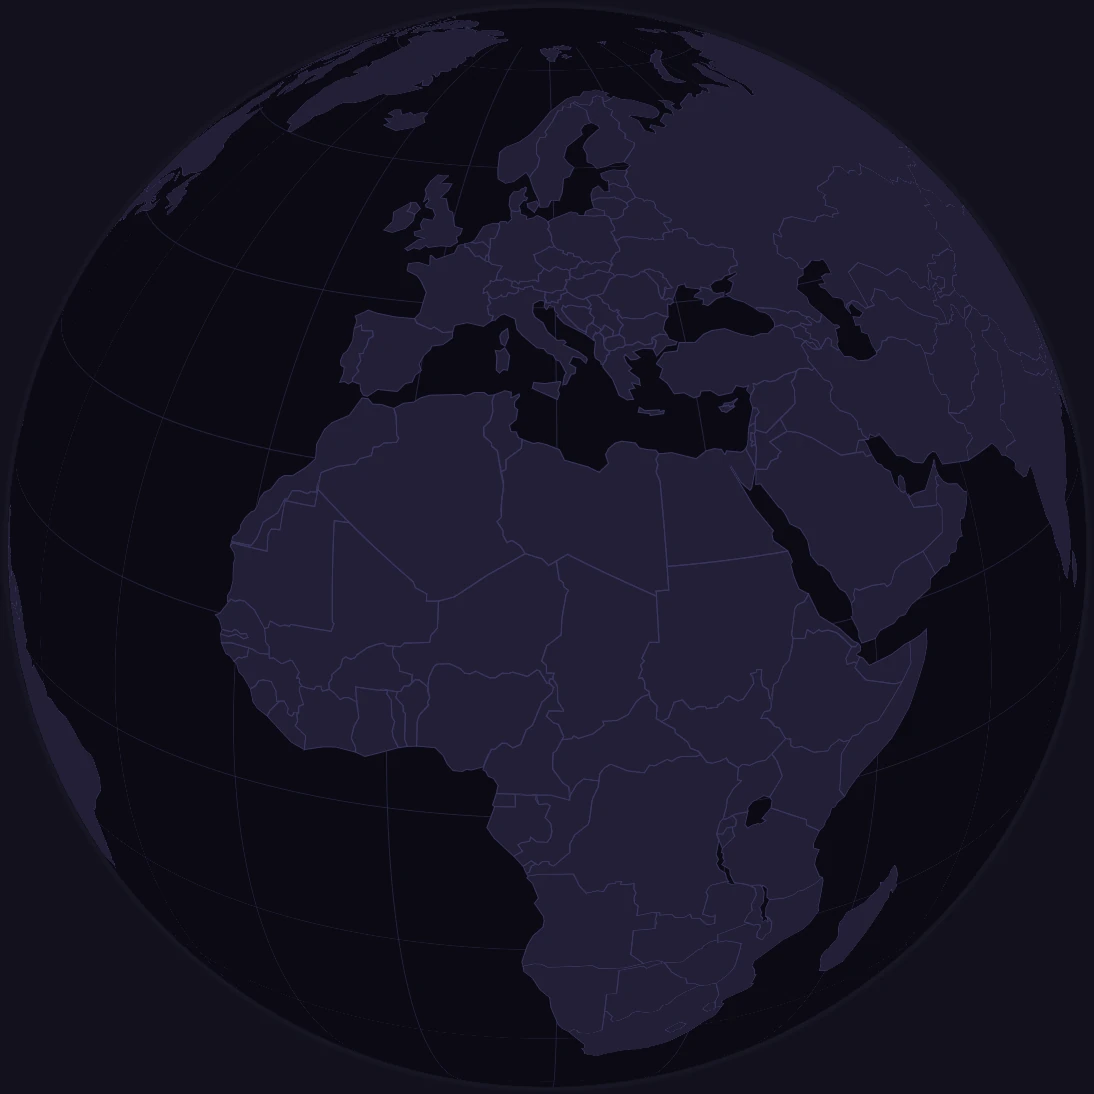
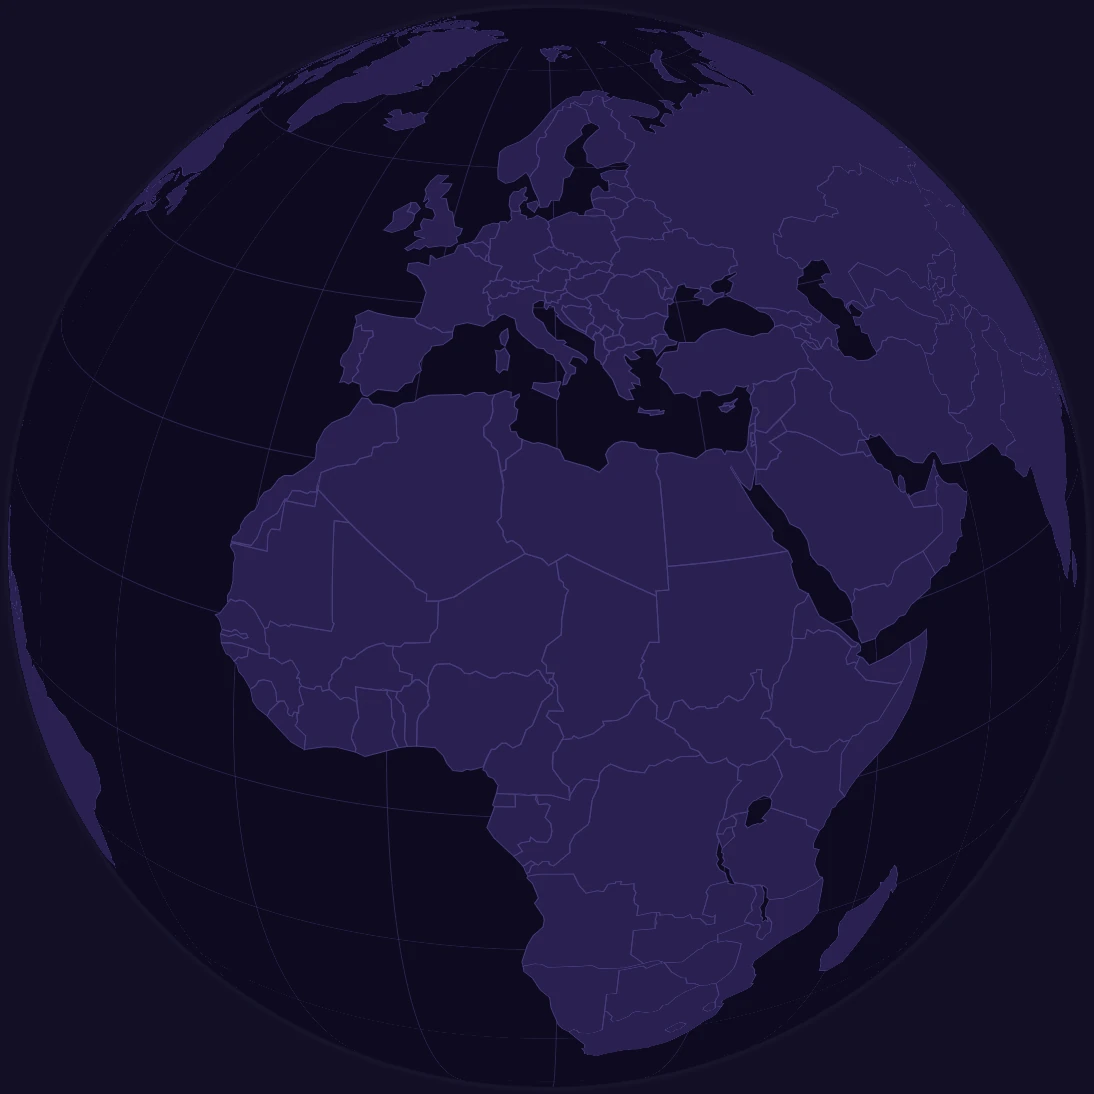
feat: dark theme in deep indigo-plum with the brand colours lit
Surfaces keep a violet cast, borders are orchid-tinted, and the liquid
gradient uses deep saturated coral, orchid and periwinkle at night instead of
dimmed pastels. Globe colours and still frames regenerated.

diff --git a/app/globals.css b/app/globals.css
@@ -44,6 +44,12 @@
   --orchid: #d9b3e6;
   --orchid-strong: #8f55a8;
 
+  /* the liquid gradient by day: the three pastels themselves */
+  --liquid-1: var(--agency);
+  --liquid-2: var(--orchid);
+  --liquid-3: var(--investor);
+  --liquid-opacity: 0.75;
+
   /* listings on the globe are an agency's: coral */
   --beacon: #c2534b;
   --beacon-glow: #f08a80;
@@ -65,50 +71,57 @@
 }
 
 .dark {
-  /* Night */
-  --background: #13111e;
-  --foreground: #f1edf7;
-  --card: #1d1a2b;
-  --card-foreground: #f1edf7;
-  --popover: #1d1a2b;
-  --popover-foreground: #f1edf7;
-  --primary: #d9b3e6;
+  /* Night: a deep indigo-plum rather than a neutral black, so the three brand colours read as lit, not washed out.
+     Surfaces step up in lightness and keep the violet cast; borders are tinted orchid. */
+  --background: #130f26;
+  --foreground: #f3eefb;
+  --card: #1f1838;
+  --card-foreground: #f3eefb;
+  --popover: #231b40;
+  --popover-foreground: #f3eefb;
+  --primary: #dcb8ea;
   --primary-foreground: #1e1b2e;
-  --secondary: #2a2640;
-  --secondary-foreground: #f1edf7;
-  --muted: #221f34;
-  --muted-foreground: #a39db8;
-  --accent: #2a2640;
-  --accent-foreground: #f1edf7;
-  --destructive: #f08a80;
-  --border: rgb(241 237 247 / 0.1);
-  --input: rgb(241 237 247 / 0.16);
-  --ring: #d9b3e6;
+  --secondary: #2c2350;
+  --secondary-foreground: #f3eefb;
+  --muted: #241c44;
+  --muted-foreground: #b4aad0;
+  --accent: #30265a;
+  --accent-foreground: #f3eefb;
+  --destructive: #f59a90;
+  --border: rgb(220 184 234 / 0.14);
+  --input: rgb(220 184 234 / 0.22);
+  --ring: #dcb8ea;
 
   --investor: #b3c7f3;
   --investor-strong: #a9bff2;
   --agency: #f5b3ac;
   --agency-strong: #f5a8a0;
-  --orchid: #d9b3e6;
-  --orchid-strong: #dbb6e8;
+  --orchid: #dcb8ea;
+  --orchid-strong: #dfbdec;
+
+  /* the liquid gradient at night: the same three hues, deep and saturated, so they glow instead of greying */
+  --liquid-1: #b0464f;
+  --liquid-2: #7f3fa6;
+  --liquid-3: #3b55b8;
+  --liquid-opacity: 0.6;
 
   --beacon: #f5a8a0;
   --beacon-glow: #ffd0ca;
   --atmosphere: #9db4f0;
   --positive: #6fd3a8;
-  --ocean: #0b0a14;
-  --land: #221f36;
-  --land-line: #3a3560;
-  --glass: rgb(29 26 43 / 0.72);
-  --glass-border: rgb(241 237 247 / 0.08);
-  --shadow-color: 262 60% 3%;
+  --ocean: #0e0a20;
+  --land: #2a2152;
+  --land-line: #473c7c;
+  --glass: rgb(31 24 56 / 0.74);
+  --glass-border: rgb(220 184 234 / 0.14);
+  --shadow-color: 258 70% 4%;
 
   /* charts: validated against the dark card surface */
   --chart-1: #6b8ae0;
   --chart-2: #de685d;
   --chart-3: #ac62ce;
   --chart-4: #32a877;
-  --chart-5: #a39db8;
+  --chart-5: #b4aad0;
 }
 
 /* Agency pages (dashboard, agency sign-up): coral leads instead of orchid. */
@@ -286,13 +299,12 @@
     aspect-ratio: 1;
     border-radius: 9999px;
     filter: blur(70px);
-    opacity: 0.75;
+    opacity: var(--liquid-opacity);
     will-change: transform;
   }
-  .liquid > i:nth-child(1) { left: -12%; top: -22%; background: var(--agency); animation: var(--animate-liquid-a); }
-  .liquid > i:nth-child(2) { left: 26%; top: 6%; background: var(--orchid); animation: var(--animate-liquid-b); }
-  .liquid > i:nth-child(3) { right: -16%; top: -12%; background: var(--investor); animation: var(--animate-liquid-c); }
-  .dark .liquid > i { opacity: 0.3; }
+  .liquid > i:nth-child(1) { left: -12%; top: -22%; background: var(--liquid-1); animation: var(--animate-liquid-a); }
+  .liquid > i:nth-child(2) { left: 26%; top: 6%; background: var(--liquid-2); animation: var(--animate-liquid-b); }
+  .liquid > i:nth-child(3) { right: -16%; top: -12%; background: var(--liquid-3); animation: var(--animate-liquid-c); }
   /* Text painted with the same three colours, for one or two words of a headline. */
   .text-liquid {
     background: linear-gradient(100deg, var(--agency-strong), var(--orchid-strong) 50%, var(--investor-strong));

diff --git a/components/home/home-extras.tsx b/components/home/home-extras.tsx
@@ -45,7 +45,11 @@ export function PlacesMarquee() {
   }, [countries, pins]);
   // the band keeps its height while the list loads, so nothing below it moves
   return (
-    <div className="border-y bg-foreground py-4 text-background" aria-hidden={listed.length === 0}>
+    // by day an ink band; at night a band of the three brand colours, since a white one would glare
+    <div
+      className="border-y bg-foreground py-4 text-background dark:border-transparent dark:text-white dark:[background:linear-gradient(90deg,var(--liquid-1),var(--liquid-2),var(--liquid-3))]"
+      aria-hidden={listed.length === 0}
+    >
       <div className="h-8">
         {listed.length > 0 && (
           <Marquee className="p-0 [--duration:45s] [--gap:3rem]" repeat={3}>

diff --git a/lib/map/style.ts b/lib/map/style.ts
@@ -22,16 +22,16 @@ export const MAP_PALETTE = {
     atmosphere: '#6f8fd8',
   },
   dark: {
-    space: '#0a0912',
-    ocean: '#0b0a14',
-    land: '#221f36',
-    landLine: '#3a3560',
-    park: '#1c2a30',
-    road: '#3a3560',
-    roadCasing: '#151322',
-    building: '#2a2640',
-    label: '#a39db8',
-    labelHalo: '#13111e',
+    space: '#0b0819',
+    ocean: '#0e0a20',
+    land: '#2a2152',
+    landLine: '#473c7c',
+    park: '#22304a',
+    road: '#473c7c',
+    roadCasing: '#171230',
+    building: '#332861',
+    label: '#b4aad0',
+    labelHalo: '#130f26',
     match: '#f5a8a0',
     beacon: '#f5a8a0',
     beaconGlow: '#ffd0ca',

diff --git a/components/auth/auth-shell.tsx b/components/auth/auth-shell.tsx
@@ -31,9 +31,9 @@ function Contours() {
       <Topography
         key={dark ? 'dark' : 'light'}
         lightMode={!dark}
-        lowColor={dark ? '#13111e' : '#fbf9fc'}
+        lowColor={dark ? '#130f26' : '#fbf9fc'}
         midColor={dark ? '#26395a' : '#b3c2d3'}
-        highColor={dark ? '#d9b3e6' : '#8f55a8'}
+        highColor={dark ? '#dcb8ea' : '#8f55a8'}
         speed={reduced ? 0 : 0.12}
         morphSpeed={reduced ? 0 : 0.03}
         bands={3}

diff --git a/app/layout.tsx b/app/layout.tsx
@@ -19,7 +19,7 @@ export const metadata: Metadata = {
 export const viewport: Viewport = {
   themeColor: [
     { media: '(prefers-color-scheme: light)', color: '#fbf9fc' },
-    { media: '(prefers-color-scheme: dark)', color: '#13111e' },
+    { media: '(prefers-color-scheme: dark)', color: '#130f26' },
   ],
   width: 'device-width',
   initialScale: 1,

diff --git a/PROGRESS.md b/PROGRESS.md
@@ -13,7 +13,7 @@
   folders `D:\Desktop\NomadEstate\<repo>\PROGRESS.md` when the computer is reachable.
 - **Heartbeat / lock:** if `Last heartbeat` below is less than 45 minutes old, another session is
   actively working — the scheduled run must exit without changes.
-- **Last heartbeat:** 2026-10-09 13:19 Europe/Bucharest (home page additions and motion done; Part C continues with C4 or C5)
+- **Last heartbeat:** 2026-10-09 13:31 Europe/Bucharest (dark theme reworked; Part C continues with C4 or C5)
 
 ## Decisions (agreed with owner, 2026-10-04)
 
@@ -468,3 +468,4 @@ ode-v20.19.5-win-x64`
 - 2026-10-06 20:07 (Claude Code, local): C3. Tables `ai."KnowledgeSource"` and `ai."KnowledgeChunk"` in their own schema, SQL only (Prisma cannot express pgvector and leaves other schemas alone). Python job `nomad-estate-ai-api/ml/ingest` (uv, ruff, pytest, its own CI) ingested 19 official documents, 453 passages, for ES, PT, GR, AE, RO; every source is unreviewed until the owner checks it. Rust: hybrid retrieval (pgvector + full-text, rank fusion, rerank), `POST /api/ai/ask` as server-sent events with checked citations, "no source" without calling the model when nothing is good enough, passages only when the model is down. Frontend: "Ask about buying in {country}" on the listing page, checked in a real browser in light and dark, desktop and phone. Retrieval eval, 60 questions: right document first 86%, among those sent 88%, unanswerable declined 90%; p95 19.8 s because the reranker runs on CPU here (needs a GPU in production). Answer quality is not measured: Qwen3 has still not been run. Some eval misses are my questions, written from summaries. For local work the AI API's main database is now the Docker pgvector Postgres (port 55433) holding a copy of the dev data; the CI Postgres is the pgvector image. 65 Rust tests, 7 Python tests, 37 frontend tests pass.
 - 2026-10-09 13:07 (Claude Code, local): owner-requested visual refresh, outside the Part C list. Palette: pastel coral for agencies and pastel periwinkle for investors (the old Nomad red and blue, softened), orchid between them leading on shared pages, a CSS "liquid" gradient of the three behind heroes (the owner asked for the liquid gradient the old home page had; this one needs no WebGL), ink or white text. Tokens in `app/globals.css`, map colours in `lib/map/style.ts`, globe stills regenerated. `.audience-agency` / `.audience-investor` switch the lead colour (dashboard is coral). New logo (an N inside an orbit with a beacon, `components/site/logo.tsx`, `app/icon.svg`) and a loading screen that draws it once per tab, in CSS only. Home page: places marquee, larger numbers, a 3D "skyline" of listings per country built from CSS transforms, three charts from live listings (yield by country, price bands, price against yield; colours checked with the dataviz validator in both themes, each with a table view), tilt cards, numbered sections, a closing band. New `/about` and `/contact` (the form posts to the API's contact endpoint); every company detail in `lib/company.ts` is a placeholder. Database: `nomad-estate-database-api/prisma/backups/` holds `prod-empty.sql` (schema only) and `dev-mock.sql` (invented rows in all 44 tables, no real account, no tokens), both tested by restoring. Checked in a real browser, light and dark, desktop and phone. `typecheck`, `lint`, `build`, tests green. Lighthouse was not re-run after this change.
 - 2026-10-09 13:19 (Claude Code, local): second pass of the visual refresh, at the owner's request. Home page gains: a carousel of the highest-scoring listings, a partner-agency strip, a budget slider ("what does my budget buy", every figure read from live listings), "recently reduced" (new API route `GET /api/property/price-drops`, from the price history), country-guide cards (only where the country-answers feature is on), rotating testimonials, a newsletter form. Motion: pages ease in on navigation (`app/(pages)/template.tsx`), a scroll progress line, words of the statement rising one by one, floating figures in front of the hero globe, cards lifting and photos zooming on hover, buttons pressing. Contact page: the gradient now runs behind the whole page and the details sit in panels. Placeholders, all marked in `lib/company.ts`: partner names and testimonials are invented; the newsletter form stores nothing and says so. The dev data save was re-made with seven mock price reductions. The database API's integration tests were not re-run for the new route (they wipe the dev database); it was checked by hand against the dev data.
+- 2026-10-09 13:31 (Claude Code, local): owner feedback on the refresh. Fixed: the search page collapsed when reached by a link (the page-transition wrapper animated a transform, which fixed-position children are measured against; the transition is opacity only now). Listing rows on the search page are roomier (score on the photo, two-line titles, wider rail). Dark theme reworked: deep indigo-plum surfaces instead of near-black, orchid-tinted borders, and the liquid gradient uses deep saturated coral, orchid and periwinkle at night (`--liquid-1..3`) instead of dimmed pastels; the globe's night colours and still frames follow. Chart colours re-validated against the new dark card.
